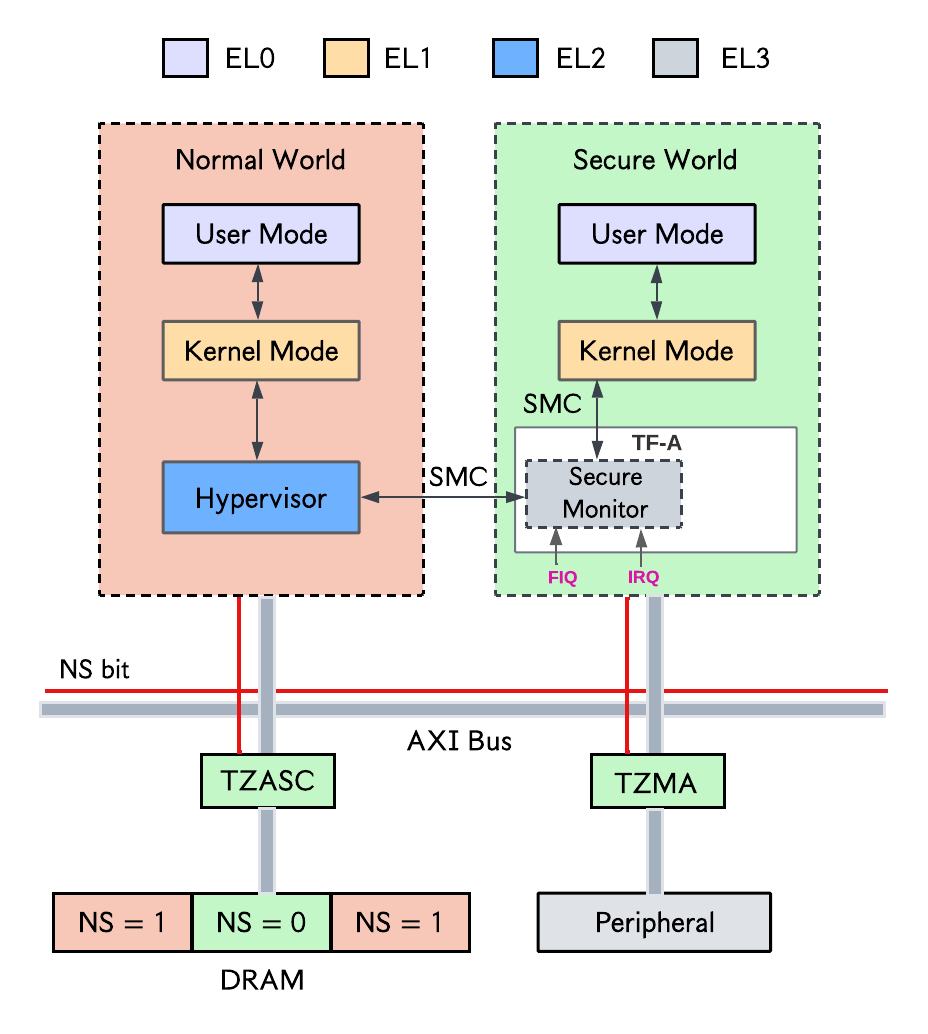
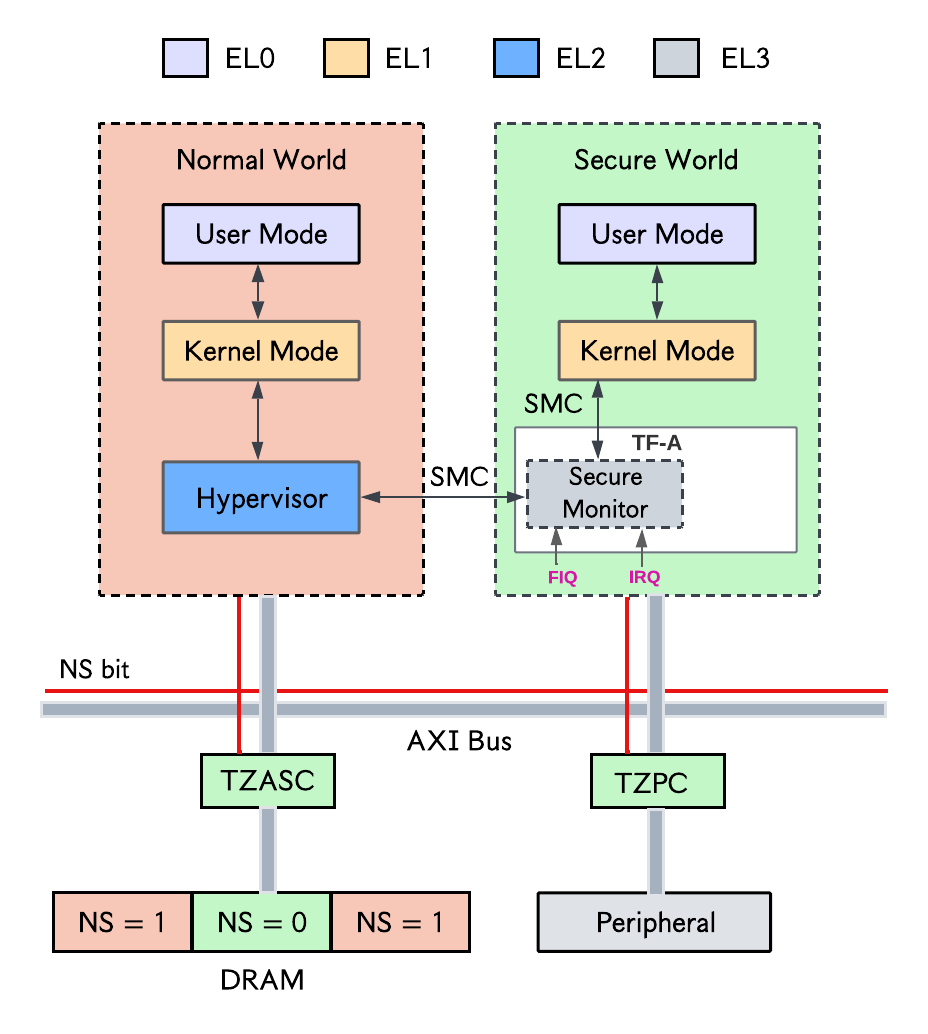
tzma --> tzpc

diff --git a/trustzone/README.md b/trustzone/README.md
@@ -2,12 +2,14 @@
 
 Arm TrustZone (TZ) is a hardware security extension in ARM-based processors that allows the processor to be split into two protection domains: a **secure world**, wherein data is processed securely and isolated from the host OS (or hypervisor), and a **normal world** which has no access to secure world resources. At any point in time, the processor operates exclusively in one of these worlds. A privileged software component called a _secure monitor_ enables context switching between both worlds using _secure monitor calls_ (SMC), analogous to SGX ecalls and ocalls.
 
-A hardware component called the **TrustZone address space controller**(TZASC) enforces the separation between the secure world and the normal world by controlling access to physical memory. Essentially, TZASC can be programmed/configured such that some parts of physical memory (contiguous blocks) are only accessible in the secure world, or both worlds. A special bit called the _non-secure_ (NS) bit, stored in the _secure configuration register_(SCR), is used to determine which world the processor is currently operating in.
+A hardware component called the **TrustZone address space controller** (TZASC) enforces the separation between the secure world and the normal world by controlling access to physical memory. Essentially, TZASC can be programmed/configured such that some parts of physical memory (contiguous blocks) are only accessible in the secure world, or both worlds. A special bit called the _non-secure_ (NS) bit, stored in the _secure configuration register_ (SCR), is used to determine which world the processor is currently operating in.
 
 <!--![Arm TrustZone architecture](./tz-arch.png)-->
 <p align="center">
   <img src="tz-arch.png" alt="Arm TrustZone architecture" width="50%">
 </p>
+
+A similar hardware component called the **TrustZone protection controller** (TZPC) arbitrates access to peripherals. TZPC can be configured such that a peripheral is accessible only from the secure world, or both secure and normal world.
 
 Contrary to TEE technologies like SGX which encrypt data stored in memory, TZ only performs access control checks to ensure confidentiality. 
 
